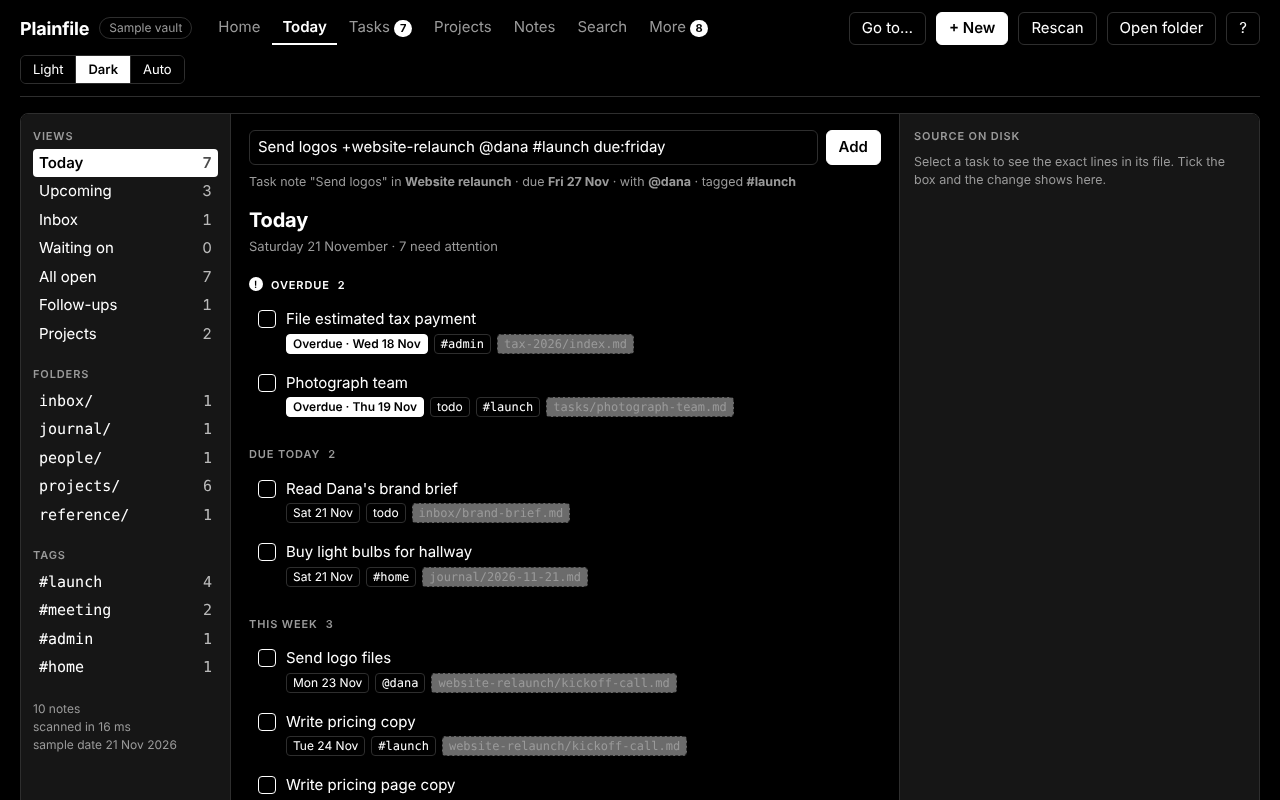
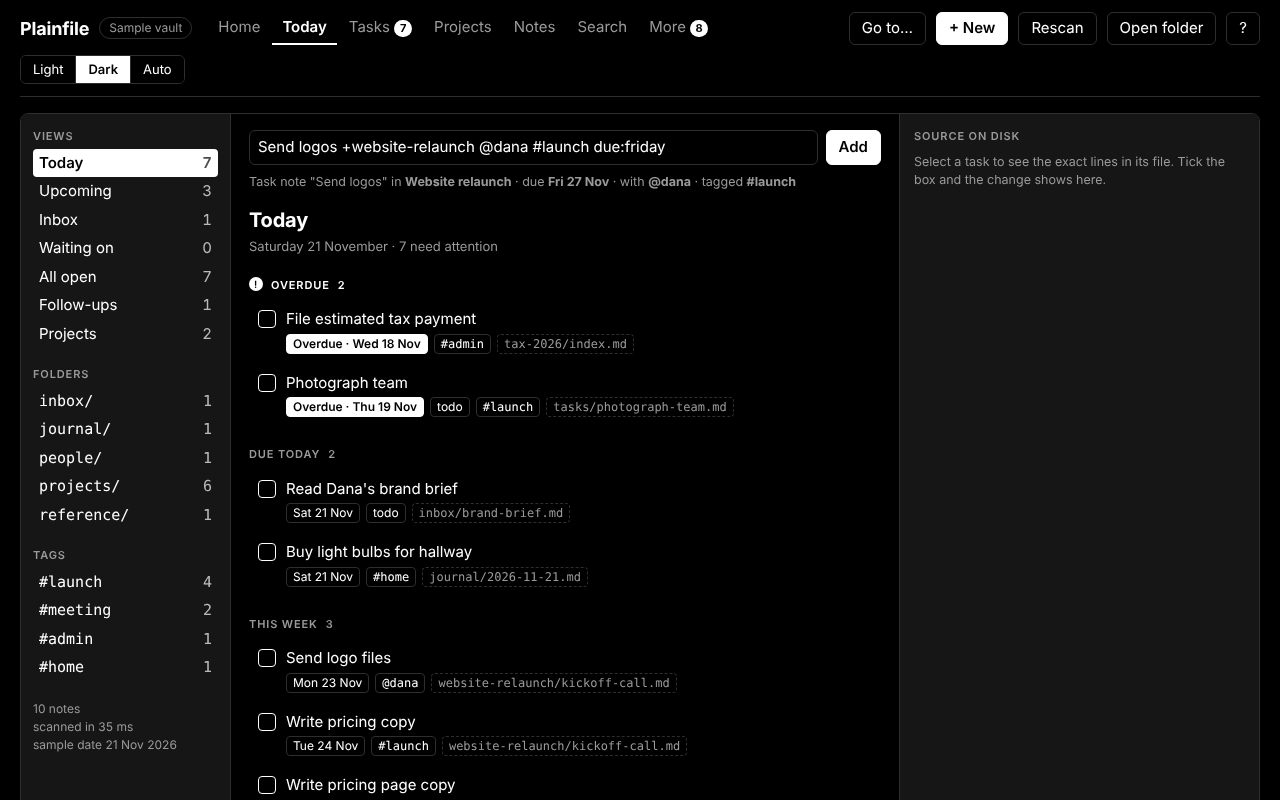
Add an accessibility scan to the browser tests and fix what it found (1.4.2) (#10)
Claude-Session: https://claude.ai/code/session_01R4FEdBw4QsP4joija6qyER

diff --git a/tests/e2e/a11y.spec.ts b/tests/e2e/a11y.spec.ts
@@ -1,0 +1,68 @@
+import AxeBuilder from '@axe-core/playwright';
+import { expect, test, type Page } from '@playwright/test';
+import { localDate, nav, noteItem, openVault } from './helpers';
+
+/**
+ * Accessibility smoke test: axe checks each screen, in light and dark, against WCAG 2 A and AA. It finds what a
+ * machine can (names, roles, contrast, duplicate ids); it is not a substitute for trying the app with a keyboard
+ * and a screen reader.
+ */
+const TODAY = localDate(0);
+const VAULT: Record<string, string> = {
+  'projects/site/index.md': `---\ntitle: Website\ntype: project\nactive: true\n---\n# Website\n- [ ] Overdue inline due:2020-01-01 @dana\n- [ ] Today inline due:${TODAY} #launch\n`,
+  'projects/site/tasks/Fix footer.md': `---\ntitle: Fix footer\nstatus: doing\nproject: site\npeople: [dana]\ndue: ${TODAY}\n---\n\nFooter body\n`,
+  'meetings/Kickoff.md': `---\ntitle: Kickoff\ndate: ${TODAY}\nattendees: [dana]\n---\nSee [[Fix footer]].\n`,
+  'people/dana.md': '---\ntitle: Dana\ntype: person\n---\nDana\n',
+};
+
+const screens: { name: string; go: (p: Page) => Promise<void> }[] = [
+  { name: 'Home', go: (p) => nav(p, 'Home').click() },
+  { name: 'Today', go: (p) => nav(p, 'Today').click() },
+  { name: 'Tasks', go: (p) => nav(p, 'Tasks').click() },
+  { name: 'Projects', go: (p) => nav(p, 'Projects').click() },
+  {
+    name: 'Project hub',
+    go: async (p) => {
+      await nav(p, 'Projects').click();
+      await p.locator('.pcard .pbtn').first().click();
+    },
+  },
+  {
+    name: 'Notes with a note open',
+    go: async (p) => {
+      await nav(p, 'Notes').click();
+      await (await noteItem(p, 'Kickoff')).click();
+      await expect(p.locator('.cm-content')).toBeVisible();
+    },
+  },
+  { name: 'Search', go: (p) => nav(p, 'Search').click() },
+  { name: 'Calendar', go: (p) => nav(p, 'Calendar').click() },
+  { name: 'People', go: (p) => nav(p, 'People').click() },
+  { name: 'Board', go: (p) => nav(p, 'Board').click() },
+  { name: 'Recent', go: (p) => nav(p, 'Recent').click() },
+  { name: 'Insight', go: (p) => nav(p, 'Insight').click() },
+  { name: 'Vault health', go: (p) => nav(p, /^Vault health/).click() },
+];
+
+for (const scheme of ['light', 'dark'] as const) {
+  test.describe(`accessibility (${scheme})`, () => {
+    test.use({ colorScheme: scheme });
+    for (const s of screens) {
+      test(s.name, async ({ page }) => {
+        await page.goto('/');
+        await openVault(page, VAULT, true, 'home');
+        await s.go(page);
+        await page.waitForTimeout(300);
+        const results = await new AxeBuilder({ page }).withTags(['wcag2a', 'wcag2aa']).exclude('.cm-editor').analyze();
+        const summary = results.violations.map(
+          (v) =>
+            `${v.id} (${v.impact}): ${v.nodes.length} × ${v.help}\n   ${v.nodes
+              .slice(0, 3)
+              .map((n) => n.target.join(' '))
+              .join('\n   ')}`,
+        );
+        expect(summary, summary.join('\n')).toEqual([]);
+      });
+    }
+  });
+}

diff --git a/web/app.css b/web/app.css
@@ -91,7 +91,7 @@ button:focus-visible, [tabindex]:focus-visible { outline: 2px solid var(--fg); o
 .chips { display: flex; gap: 6px; flex-wrap: wrap; margin-top: 3px; align-items: center; }
 .chip { font-size: 12px; padding: 0 6px; border: 1px solid var(--line); border-radius: 4px; color: var(--fg); }
 .chip.mono { font-family: var(--mono); }
-.chip.src { color: var(--mute); border-style: dashed; }
+.chip.src { color: var(--mute); border-style: dashed; background: var(--bg); }
 .chip.late { background: var(--fg); color: var(--bg); border-color: var(--fg); font-weight: 600; }
 .empty { border: 1px dashed var(--line); border-radius: 6px; padding: 20px; color: var(--mute); }
 .empty code { font-family: var(--mono); color: var(--fg); }
@@ -646,7 +646,7 @@ kbd { border: 1px solid var(--fg); border-radius: 4px; padding: 0 5px; font: 12p
 .cal-h { padding: 4px; font-size: 11px; text-align: center; color: var(--mute); background: var(--soft); border-bottom: 1px solid var(--line); }
 .cal-cell { min-height: 92px; padding: 3px; border-right: 1px solid var(--line); border-bottom: 1px solid var(--line); min-width: 0; }
 .cal-cell:nth-child(7n) { border-right: 0; }
-.cal-cell.out { opacity: 0.5; }
+.cal-cell.out { opacity: 0.65; }
 .cal-cell.today, .cal-col.today { background: var(--soft); }
 .cal-cell.sel, .cal-col.sel { outline: 2px solid var(--fg); outline-offset: -2px; }
 .cal-cell.over, .cal-col.over { background: var(--fg); color: var(--bg); }
@@ -705,9 +705,10 @@ kbd { border: 1px solid var(--fg); border-radius: 4px; padding: 0 5px; font: 12p
 .home-grid { margin-top: 10px; }
 @media (max-width: 700px) { .home-date { width: 100%; } .home-quick { flex-basis: 100%; } }
 .home-stats { height: 72px; align-items: end; }
-.home-stats { height: 56px; max-width: none; grid-template-columns: repeat(7, 56px) 1fr; }
+.home-stats { height: auto; max-width: none; grid-template-columns: auto 1fr; align-items: end; }
+.home-bars { display: grid; grid-template-columns: repeat(7, 56px); gap: 6px; height: 56px; align-items: end; }
 .home-links { display: flex; gap: 6px; flex-wrap: wrap; align-self: center; justify-content: flex-end; }
-@media (max-width: 700px) { .home-stats { grid-template-columns: repeat(7, 1fr); height: auto; } .home-stats .wday { height: 56px; } .home-links { grid-column: 1 / -1; justify-content: flex-start; } }
+@media (max-width: 700px) { .home-stats { grid-template-columns: 1fr; } .home-bars { grid-template-columns: repeat(7, 1fr); } .home-bars .wday { height: 56px; } .home-links { grid-column: 1 / -1; justify-content: flex-start; } }
 .recent-table .r { text-align: right; white-space: nowrap; }
 .recent-row { cursor: pointer; }
 .recent-row:hover { background: var(--line); }

diff --git a/web/home.ts b/web/home.ts
@@ -36,7 +36,7 @@ export function html(): string {
   let h = `<div class="home"><div class="home-top"><span class="meta home-date">${esc(fmtDateLong(t))}</span>${qb.form}</div>${qb.below}`;
   if (logHtml()) h += `<div class="home-log">${logHtml()}</div>`;
   if (notice.text) h += `<div class="notice ok" role="status">${esc(notice.text)} <button class="btn small" data-home-dismiss>Dismiss</button></div>`;
-  h += `<div class="home-stats" role="img" aria-label="Open tasks due each day for the next seven days">${week.map((d) => `<div class="wday${d.date === t ? ' today' : ''}"><i style="height:${Math.round((d.open / peak) * 100)}%"></i><b>${d.open}</b><span>${esc(fmtDate(d.date).slice(0, 3))}</span></div>`).join('')}<div class="home-links"><button class="btn small" data-nav="notes" data-count title="${idx.files.size} files in the folder, ${idx.notes.size} of them notes. Open the list.">${idx.notes.size.toLocaleString()} note${idx.notes.size === 1 ? '' : 's'}</button><button class="btn small" data-nav="tasks">All tasks</button><button class="btn small" data-nav="search">Search</button><button class="btn small" data-nav="explore">Explore</button><button class="btn small" data-nav="review">Weekly review</button><button class="btn small" data-nav="today">Upcoming</button><button class="btn small" data-nav="recent">Recent</button></div></div>`;
+  h += `<div class="home-stats"><div class="home-bars" role="img" aria-label="Open tasks due each day for the next seven days">${week.map((d) => `<div class="wday${d.date === t ? ' today' : ''}"><i style="height:${Math.round((d.open / peak) * 100)}%"></i><b>${d.open}</b><span>${esc(fmtDate(d.date).slice(0, 3))}</span></div>`).join('')}</div><div class="home-links"><button class="btn small" data-nav="notes" data-count title="${idx.files.size} files in the folder, ${idx.notes.size} of them notes. Open the list.">${idx.notes.size.toLocaleString()} note${idx.notes.size === 1 ? '' : 's'}</button><button class="btn small" data-nav="tasks">All tasks</button><button class="btn small" data-nav="search">Search</button><button class="btn small" data-nav="explore">Explore</button><button class="btn small" data-nav="review">Weekly review</button><button class="btn small" data-nav="today">Upcoming</button><button class="btn small" data-nav="recent">Recent</button></div></div>`;
   h += '<div class="home-grid">';
   h += card(
     'Projects',

diff --git a/web/insight.ts b/web/insight.ts
@@ -51,7 +51,7 @@ export function html(): string {
     '<div class="home insight"><h2 class="title">Insight</h2><p class="meta">Worked out from your own files, in this browser. Nothing is recorded anywhere. <button class="link" data-insight-export="csv">Export CSV</button> · <button class="link" data-insight-export="json">Export JSON</button></p><div class="home-grid">';
   h += card(
     'Activity: notes changed per day, last 26 weeks',
-    `<div class="heat" role="img" aria-label="${a.total} notes changed on ${a.days} days in the last 26 weeks">${a.weeks.map((w) => `<div class="heat-col">${w.map((d) => (d.count ? `<button class="lv${d.level}" data-insight-day="${esc(d.date)}" aria-label="${esc(fmtDate(d.date))}: ${d.count} note${d.count === 1 ? '' : 's'} changed. Show them." title="${esc(fmtDate(d.date))}: ${d.count} note${d.count === 1 ? '' : 's'} changed"></button>` : `<i class="lv0" title="${esc(fmtDate(d.date))}: nothing changed"></i>`)).join('')}</div>`).join('')}</div>` +
+    `<div class="heat" role="group" aria-label="${a.total} notes changed on ${a.days} days in the last 26 weeks">${a.weeks.map((w) => `<div class="heat-col">${w.map((d) => (d.count ? `<button class="lv${d.level}" data-insight-day="${esc(d.date)}" aria-label="${esc(fmtDate(d.date))}: ${d.count} note${d.count === 1 ? '' : 's'} changed. Show them." title="${esc(fmtDate(d.date))}: ${d.count} note${d.count === 1 ? '' : 's'} changed"></button>` : `<i class="lv0" title="${esc(fmtDate(d.date))}: nothing changed"></i>`)).join('')}</div>`).join('')}</div>` +
       `<p class="small muted" style="margin:6px 0 0">${a.total} note${a.total === 1 ? '' : 's'} changed on ${a.days} day${a.days === 1 ? '' : 's'}${a.busiest ? `. Busiest: ${esc(fmtDate(a.busiest.date))}, ${a.busiest.count}.` : '.'} Darker is busier. Dates come from each file's modified time.</p>`,
     true,
   );

diff --git a/web/calendar.ts b/web/calendar.ts
@@ -37,14 +37,14 @@ function monthHtml(): string {
   for (const e of ev) by.set(e.date, [...(by.get(e.date) ?? []), e]);
   const month = cal.anchor.slice(0, 7);
   return (
-    `<div class="cal-grid" role="grid" aria-label="${esc(monthLabel(cal.anchor))}">${DOW.map((d) => `<div class="cal-h" role="columnheader">${d}</div>`).join('')}` +
+    `<div class="cal-grid" aria-label="${esc(monthLabel(cal.anchor))}">${DOW.map((d) => `<div class="cal-h">${d}</div>`).join('')}` +
     weeks
       .flat()
       .map((d) => {
         const list = by.get(d) ?? [];
         const open = list.filter((e) => !e.done).length;
         return (
-          `<div class="cal-cell${d.slice(0, 7) !== month ? ' out' : ''}${d === today() ? ' today' : ''}${d === cal.selected ? ' sel' : ''}" role="gridcell" data-cal-day="${d}">` +
+          `<div class="cal-cell${d.slice(0, 7) !== month ? ' out' : ''}${d === today() ? ' today' : ''}${d === cal.selected ? ' sel' : ''}" data-cal-day="${d}">` +
           `<button class="cal-num" data-cal-pick="${d}" aria-label="${esc(fmtDateLong(d))}${list.length ? `, ${list.length} item${list.length === 1 ? '' : 's'}` : ''}">${Number(d.slice(8))}${list.length ? `<span class="cal-count">${open || list.length}</span>` : ''}</button>` +
           list.slice(0, MAX_CHIPS).map(chip).join('') +
           (list.length > MAX_CHIPS ? `<button class="cal-more" data-cal-pick="${d}">+${list.length - MAX_CHIPS} more</button>` : '') +

diff --git a/web/people.ts b/web/people.ts
@@ -54,7 +54,7 @@ function table(p: PeopleIndex): string {
     return (peopleState.desc ? -c : c) || a.name.localeCompare(b.name);
   });
   const th = (id: string, label: string): string =>
-    `<th><button class="plain-btn" data-people-sort="${id}" aria-sort="${peopleState.sort === id ? (peopleState.desc ? 'descending' : 'ascending') : 'none'}">${label}${peopleState.sort === id ? (peopleState.desc ? ' ▾' : ' ▴') : ''}</button></th>`;
+    `<th aria-sort="${peopleState.sort === id ? (peopleState.desc ? 'descending' : 'ascending') : 'none'}"><button class="plain-btn" data-people-sort="${id}">${label}${peopleState.sort === id ? (peopleState.desc ? ' ▾' : ' ▴') : ''}</button></th>`;
   return (
     '<div class="table-wrap"><table class="portfolio"><thead><tr>' +
     th('name', 'Person') +

diff --git a/web/project.ts b/web/project.ts
@@ -37,7 +37,7 @@ function portfolioTable(idx: NonNullable<typeof state.index>): string {
     return projectState.desc ? -c : c;
   });
   const th = (id: string, label: string): string =>
-    `<th><button class="plain-btn" data-port-sort="${id}" aria-sort="${projectState.sort === id ? (projectState.desc ? 'descending' : 'ascending') : 'none'}">${label}${projectState.sort === id ? (projectState.desc ? ' ▾' : ' ▴') : ''}</button></th>`;
+    `<th aria-sort="${projectState.sort === id ? (projectState.desc ? 'descending' : 'ascending') : 'none'}"><button class="plain-btn" data-port-sort="${id}">${label}${projectState.sort === id ? (projectState.desc ? ' ▾' : ' ▴') : ''}</button></th>`;
   return (
     '<div class="table-wrap"><table class="portfolio"><thead><tr>' +
     th('number', '#') +

diff --git a/CHANGELOG.md b/CHANGELOG.md
@@ -4,6 +4,14 @@ All notable changes to this project are documented here. Versions follow
 `MAJOR.MINOR.PATCH`. The version in `package.json` is bumped on every
 deploy-intended change, together with an entry here.
 
+## [1.4.2] - 2026-11-23
+
+### Added
+- **An accessibility check in the browser tests** (`tests/e2e/a11y.spec.ts`, `@axe-core/playwright`, dev only): axe scans 13 screens in light and dark against WCAG 2 A and AA, so a regression fails CI.
+
+### Fixed
+- Found by that check: file-name chips were too faint in dark mode and the greyed-out days of the Calendar month in light mode; the Calendar grid and the Insight activity grid used ARIA roles that did not fit their content; the sort state on the People and Projects tables was on the wrong element; and Home's week bars wrapped buttons inside an image role.
+
 ## [1.4.1] - 2026-11-23
 
 ### Added

diff --git a/CONTRIBUTING.md b/CONTRIBUTING.md
@@ -20,6 +20,8 @@ npm run test:e2e     # browser tests (Playwright); run `npx playwright install c
 npm run coverage     # optional: how much of src/ the unit tests reach (about 89% of lines today)
 ```
 
+The browser tests include an accessibility scan (axe) of every main screen in light and dark; a new screen should be added to `tests/e2e/a11y.spec.ts`.
+
 CI runs the format check, type check, unit tests and browser tests on every push. A red run is fixed before merging.
 
 ## Branches, pull requests and releases
